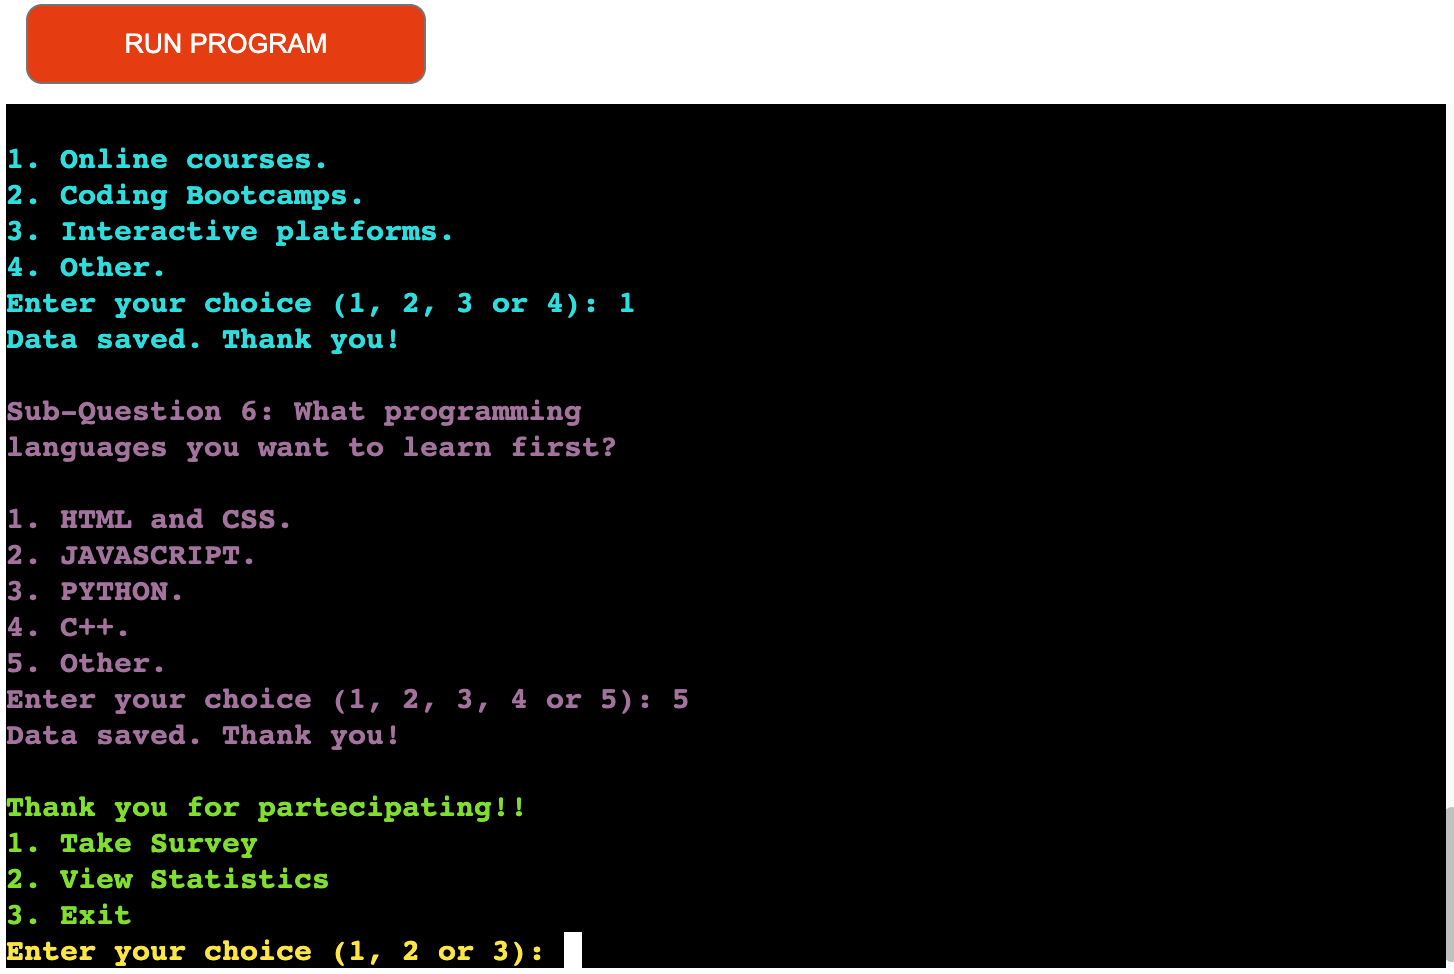
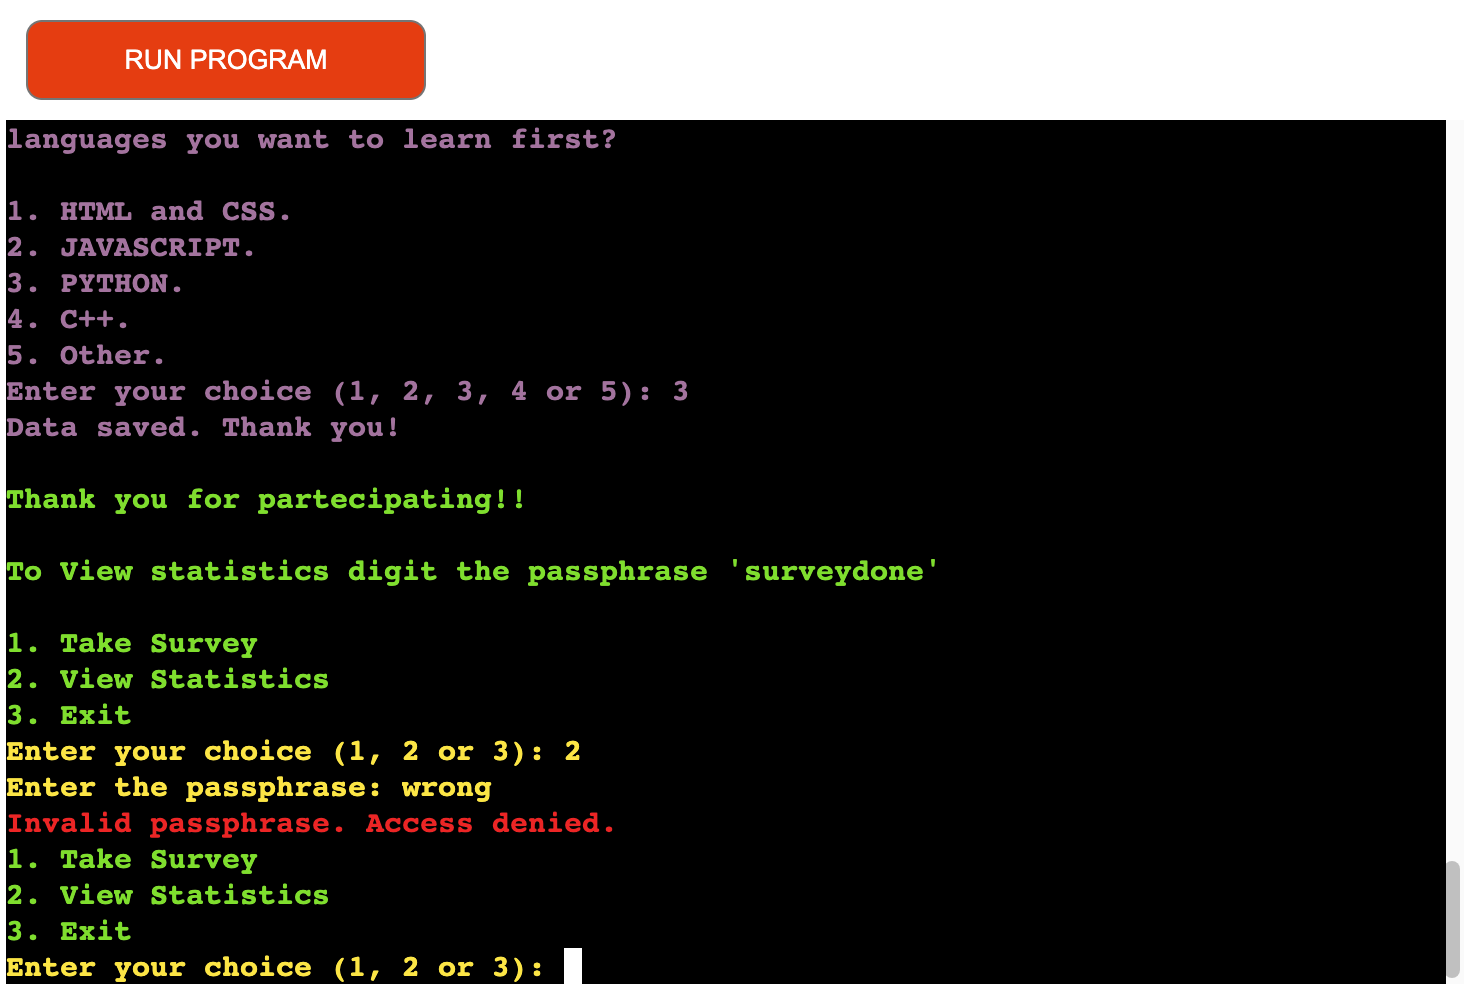
readme:Change few images for project update

diff --git a/README.md b/README.md
@@ -38,7 +38,7 @@ Coding Survey is a project configure using python, there are a series of questio
 [GitHub Pages](#github-pages)
 - [Forking the GitHub Repository](#forking-the-github-repository)
 - [Local Clone](#local-clone)
-[Heroku Deployment](#heroku-deployment)
+- [Heroku Deployment](#heroku-deployment)
 
 ### [Credits](#credits-1)
 
@@ -67,7 +67,8 @@ The site is aimed at people who want to take survey and want to help getting sta
 
 The program uses a Google sheet to store the answers collected from the survey and to have a final choices statistic.
 
-![survey_answers](images/spreadsheet.png)
+![survey_answers](images/spreadsheet_1.png)
+![user_name](images/spreadsheet_2.png)
 
 [Spreadsheet link](https://docs.google.com/spreadsheets/d/1wSeJi2abSmbRQZRm-1mazV_biynxeX6EFjFmgoU4Q30/edit#gid=527622439)
 
@@ -81,7 +82,7 @@ The program uses a Google sheet to store the answers collected from the survey a
 
 ### Features
 
-- Collect user coding information.
+- Collect users coding information.
 - Store the result data in Google spreadsheet.
 - Collect user answers for the survey.
 - View user statistics.
@@ -195,14 +196,13 @@ The program uses a Google sheet to store the answers collected from the survey a
 - End Survey
   - The survey will end.
   - The survey menú will appear again to let users to choose.
+  - The passphrase to view statistics will be available once the survey is done.
 
 ![End Survey](images/end_survey.png)
 
 - Statistic section
   - Include the user choice statistics in relative percentual.
-  - First image will show a empty user statistics.
 
-![Empty Statistic](images/empty_statistics.png)
 ![Statistic 1](images/statistics_1.png)
 ![Statistic 2](images/statistics_2.png)
 ![Statistic 3](images/statistics_3.png)
@@ -217,7 +217,6 @@ The program uses a Google sheet to store the answers collected from the survey a
 ## Features Left to Implement
 
 * Insert more questions and sub-questions.
-* Insert choice to see individual user answer questions before survey completed.
 * Insert choice to submit or not the survey at the end of the questions.
 
 ---
@@ -259,7 +258,7 @@ The program uses a Google sheet to store the answers collected from the survey a
     - There are few option in each question.
     - Invalid input will print out if the number key in is out of range.
 
-### Feature Testing
+### Features Testing
 
 - I have manually tested the following features in Gitpod and in the Code Institute Heroku terminal:
 
@@ -283,7 +282,7 @@ Exit texts | When the user choose to exit ,a screen with text is displayed. | PA
     - Line too long.
     - Blank line containing whitespace.
 
-![Validated - 1](images/ci_python_Linter_errors.png)
+![Validated - 1](images/ci_python_linter_errors.png)
 
 - After resolved all the errors, the code was validated again.
 
@@ -298,6 +297,10 @@ Exit texts | When the user choose to exit ,a screen with text is displayed. | PA
 - Resolved
     - I changed the if statement before each sub-question and now the worksheet show the right choices for each row.
 
+- There was a problem about storing user name data.They were displayed on first row and first column of the choices worksheet causing errors for appended answers.I tried to change the position of user names but the problem wasnt fixed.
+
+- Resolved
+    - I created a new worksheet called user_name only for user names.
 ---
 
 ### Deployment and local development
